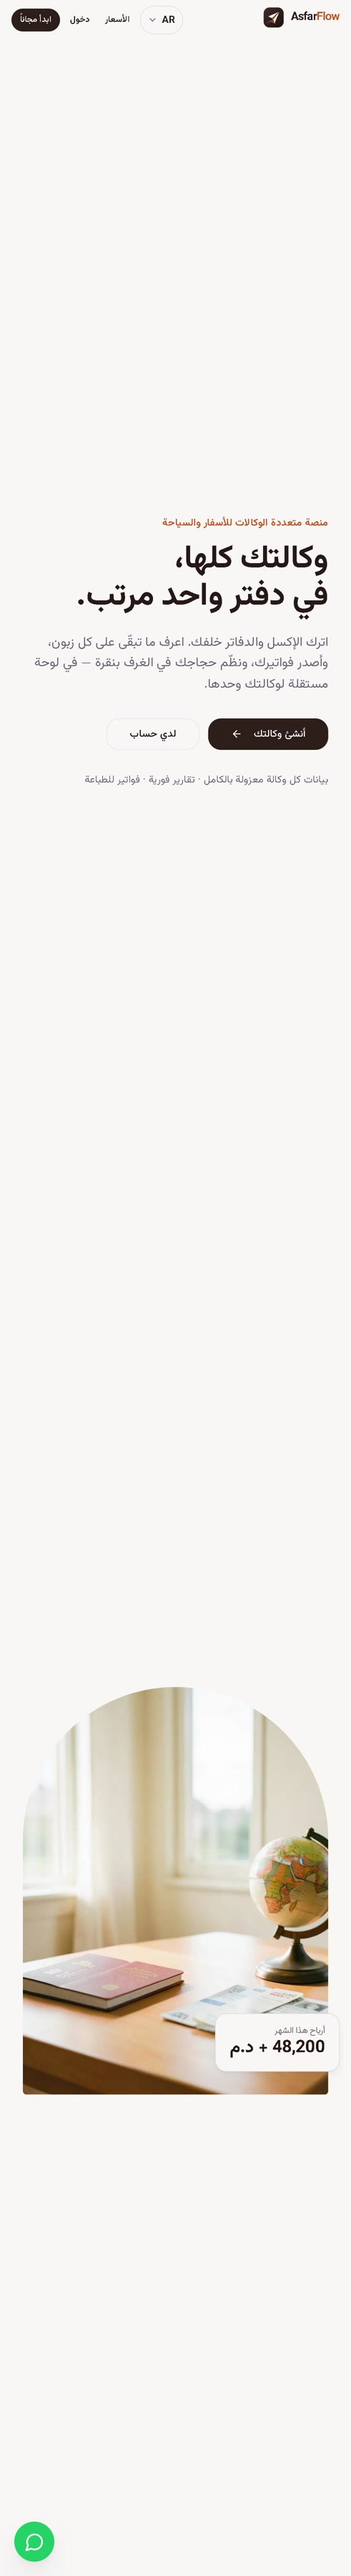
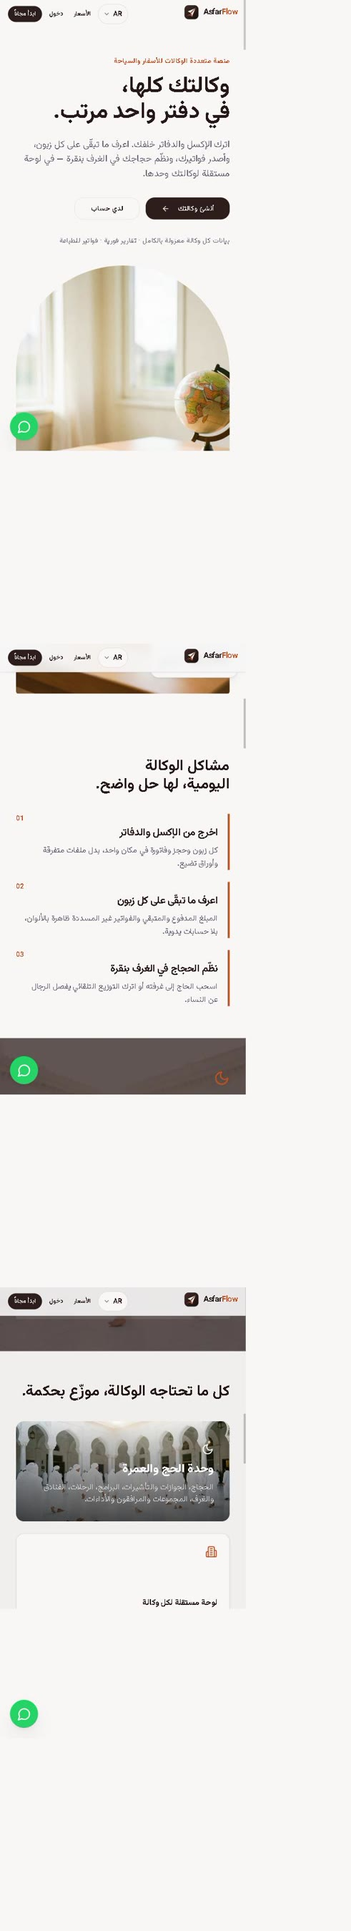
fix: AsfarFlow portfolio thumbnail showing blank by default
The previous tall screenshot was captured with a forced oversized browser
viewport, which prevented the site's own scroll-reveal animations from
firing — so most of the captured image, including the top portion shown
by default before hover, was blank. Rebuilt the image from real scrolled
screenshots (hero, problem/solution list, Hajj/Omra module) so the card
always shows real content, both at rest and while scrolling on hover.

diff --git a/fr/index.html b/fr/index.html
@@ -614,7 +614,7 @@ footer .billing-link:hover{background:rgba(56,189,248,.1)}
 
       <div class="w-card reveal">
         <span class="w-cat" data-i18n="w12.c"></span>
-        <div class="w-media tall"><img src="../images/portfolio/asfarflow.jpg" width="491" height="3600" data-i18n-alt="w12.t" alt="" loading="lazy"/></div>
+        <div class="w-media tall"><img src="../images/portfolio/asfarflow.jpg" width="491" height="2700" data-i18n-alt="w12.t" alt="" loading="lazy"/></div>
         <div class="w-body"><h3 data-i18n="w12.t"></h3><p data-i18n="w12.d"></p><a class="w-link" href="https://asfarflow.com/" target="_blank" rel="noopener" data-i18n="w.visit"></a></div>
       </div>
 

diff --git a/index.html b/index.html
@@ -614,7 +614,7 @@ footer .billing-link:hover{background:rgba(56,189,248,.1)}
 
       <div class="w-card reveal">
         <span class="w-cat" data-i18n="w12.c"></span>
-        <div class="w-media tall"><img src="images/portfolio/asfarflow.jpg" width="491" height="3600" data-i18n-alt="w12.t" alt="" loading="lazy"/></div>
+        <div class="w-media tall"><img src="images/portfolio/asfarflow.jpg" width="491" height="2700" data-i18n-alt="w12.t" alt="" loading="lazy"/></div>
         <div class="w-body"><h3 data-i18n="w12.t"></h3><p data-i18n="w12.d"></p><a class="w-link" href="https://asfarflow.com/" target="_blank" rel="noopener" data-i18n="w.visit"></a></div>
       </div>
 
